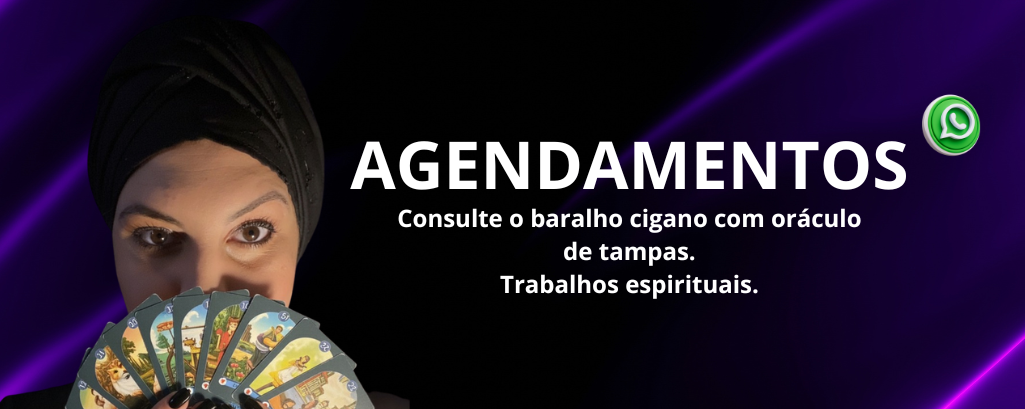
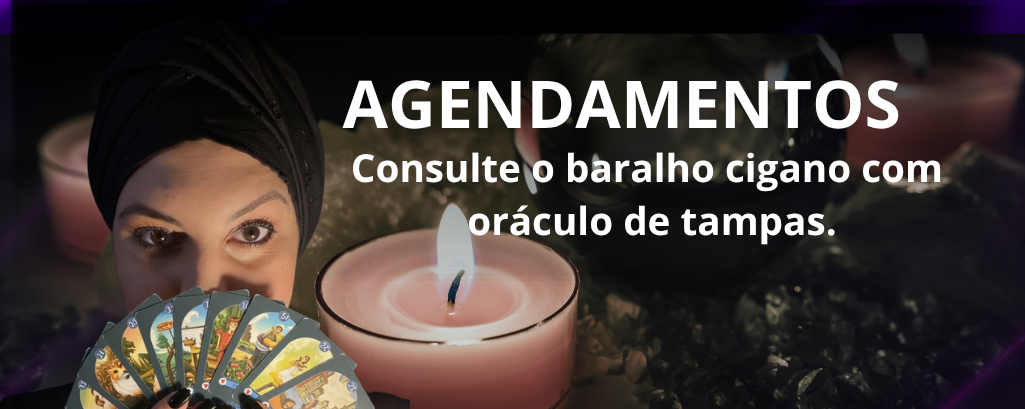
Novamente alteração nas artes
Mais uma vez pela milhonesima vez a cliente pediu para mudar a arte mesmo após aprovação.

diff --git a/style.css b/style.css
@@ -26,11 +26,11 @@ body::before {
 .hero-bg-section {
     position: relative;
     min-height: 520px; /* AJUSTE AQUI: altura padrão */
-    height: 50vh;      /* AJUSTE AQUI: proporção em relação à altura da tela */
+    height: 200vh;      /* AJUSTE AQUI: proporção em relação à altura da tela */
     display: flex;
     align-items: center;
     justify-content: center;  
-    background: url('/img/bem_vindo_3.png') center no-repeat;        
+    background: url('/img/hero.png') center no-repeat;        
     background-size: contain;      /* "cover" preenche sem distorcer; use "contain" para ver a imagem inteira*/ 
     background-position: center top;
     border-bottom-left-radius: 2rem;
